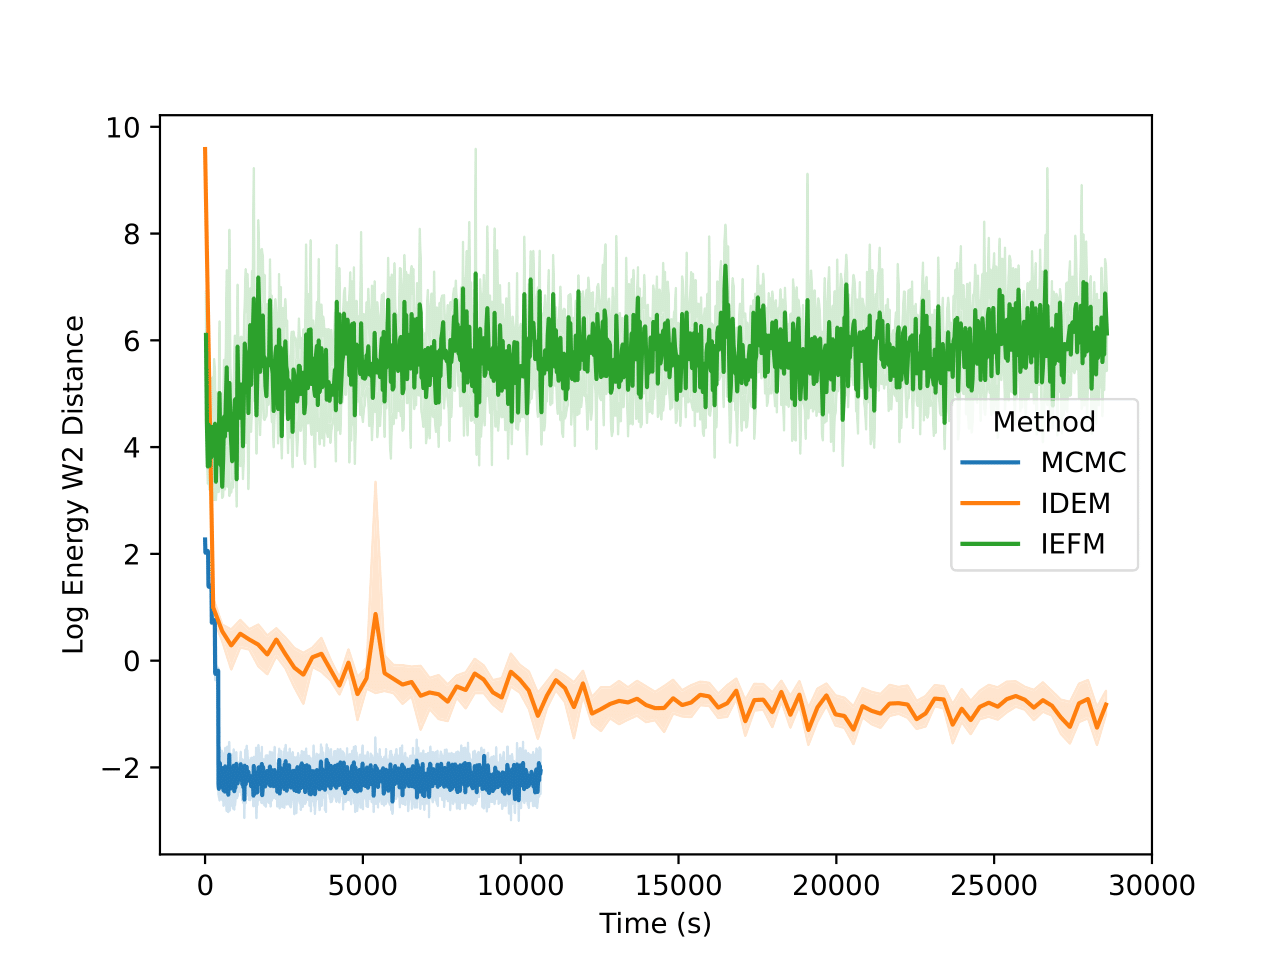
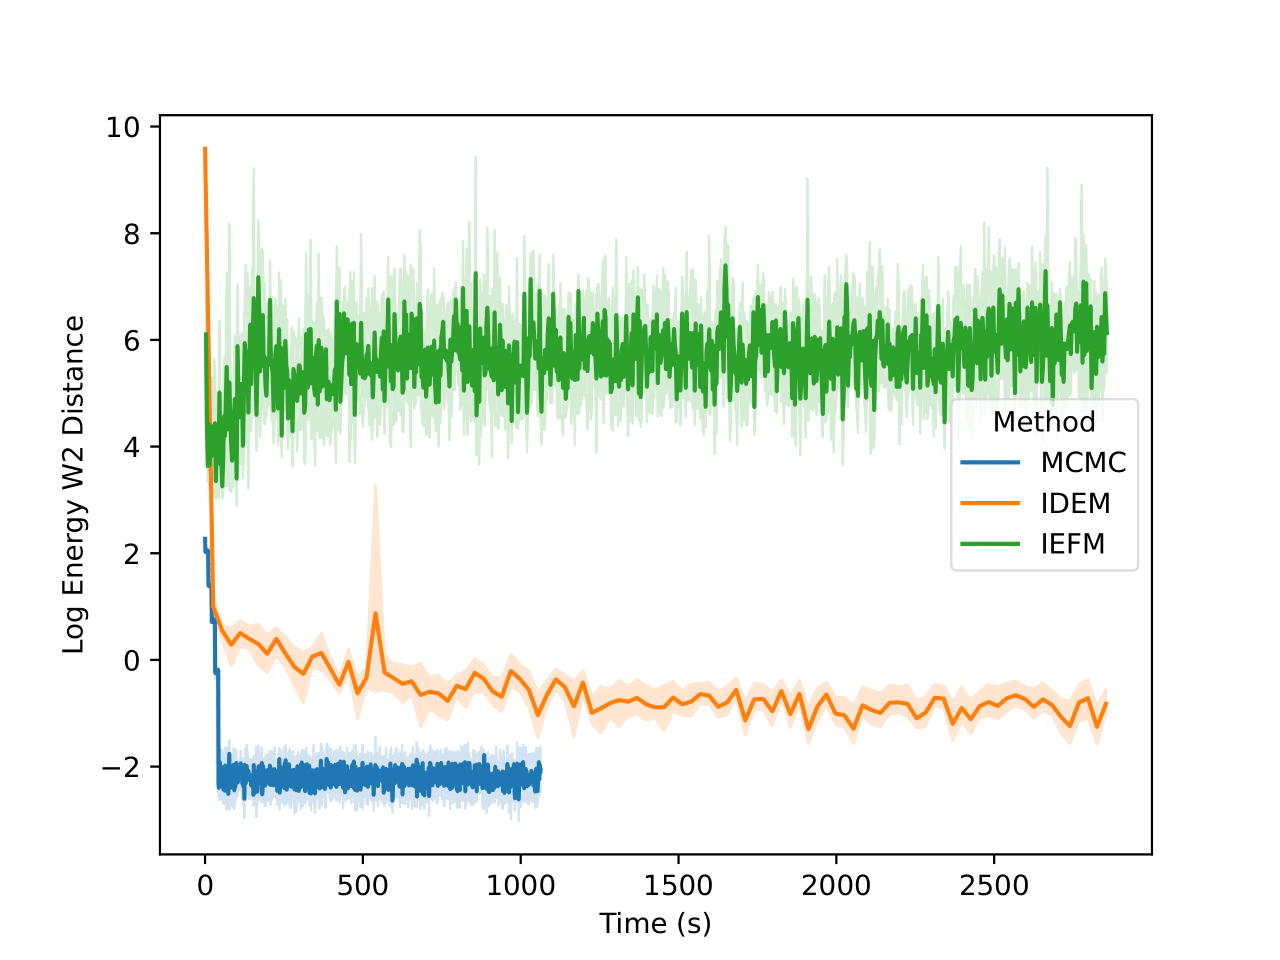
updated time figures and acknowledgements

diff --git a/_posts/2025-04-28-ebm-vs-mcmc.md b/_posts/2025-04-28-ebm-vs-mcmc.md
@@ -48,6 +48,7 @@ toc:
   - name: 13-Particle Lennard Jones System
   - name: 55-Particle Lennard Jones System
   - name: Closing thoughts - the role that these models have to play
+  - name: Acknowledgements
 ---
 
 ## Introduction 
@@ -475,3 +476,7 @@ Our analysis offers a sobering assessment of the current state of neural network
 However, this critique should not also be viewed as a wholesale rejection of such neural approaches in molecular sampling. Rather, it suggests a needed shift in research focus. One promising direction lies in leveraging neural networks' capacity for transfer learning. While MCMC methods are often system-specific, and require long chains on every new system, neural networks could potentially learn generalizable sampling strategies that transfer across different molecular systems. This transferability could provide a compelling "inference time" advantage over traditional MCMC methods, even if the training cost is significantly higher than running a MCMC chain on a single system. This has already been demonstrated in works such as TimeWarp<d-cite key="klein2023timewarp"></d-cite>and Transferable Boltzmann Generators<d-cite key="klein2024tbg"></d-cite>. Additionally, while ML-based methods in this context remain suboptimal, we are optimistic that future models will soon be capable of generating samples zero-shot with near-Boltzmann accuracy.
 
 A critical limitation of current neural approaches like iEFM and iDEM lies in their reliance on weighted averages of noisy samples. This becomes particularly problematic when dealing with real molecular systems, where energy landscapes can be extremely steep and sampling noise can lead to explosive gradients. Future work might address this by reconsidering how noise is incorporated into these models - for instance, by defining noise on a Riemannian manifold that respects the geometric constraints of molecular systems<d-cite key="jing2023torsdiff"></d-cite>. Such modifications could help stabilize training and improve sampling efficiency while maintaining the potential benefits of neural approaches.
+
+## Acknowledgements
+
+This work is funded through R35GM140753 from the National Institute of General Medical Sciences. The content is solely the responsibility of the authors and does not necessarily represent the official views of the National Institute of General Medical Sciences or the National Institutes of Health.
